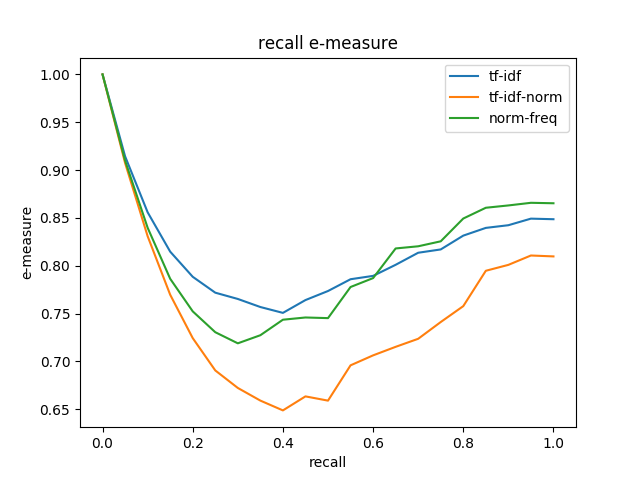
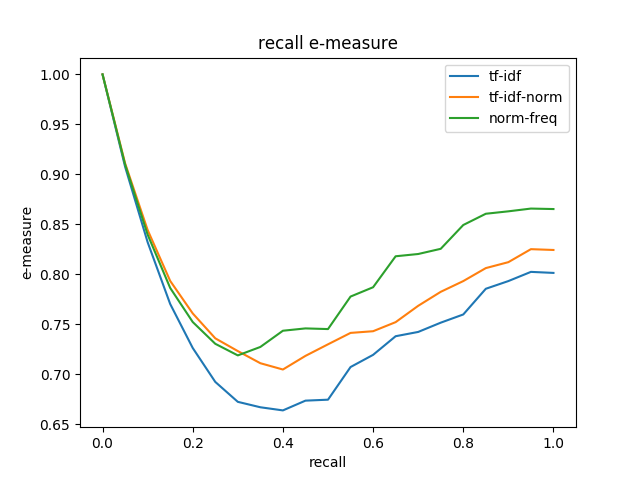
add map + r-measure

diff --git a/performance_test.py b/performance_test.py
@@ -10,6 +10,8 @@ from documents import DocumentNormalizer, DocumentTokenizer, StopList, InvertedI
 from query import Tree
 from search_models import VectorModel, BooleanModel
 
+MAX_RANK = 200
+
 parser = argparse.ArgumentParser(
     description='Runs a performance test on cacm collection')
 
@@ -120,20 +122,9 @@ def n_points_interpolate(qrecalls, qprecisions, n):
 
     return qrecalls_res, qprecisions_res
 
-
-def build_precision_recall(inv_index, queries, qrels, N):
-    # plot a curve for each model
+def search(inv_index, queries):
+    
     for model in models:
-        N = 20
-
-        # stores raw recalls and precision query_id -> list
-        recalls = {}
-        precisions = {}
-
-        # stores interpolated recalls an precisions query_id -> list
-        recalls_interpolated = {}
-        precisions_interpolated = {}
-
         # run all queries first
         @timeit
         def run_queries():
@@ -143,10 +134,15 @@ def build_precision_recall(inv_index, queries, qrels, N):
             }
 
         all_results, elapsed_time = run_queries()
+        yield model, all_results, elapsed_time
 
-        print(
-            str(len(all_results)) + " queries ran in " + str(elapsed_time) +
-            "ms using weights " + model.method)
+def build_recall_precision(inv_index, queries, qrels, search_results):
+    # plot a curve for each model
+    for model, all_results, elapsed_time in search_results:
+
+        # stores raw recalls and precision query_id -> list
+        recalls = {}
+        precisions = {}
 
         # build raw recall and precision
         for qid, ar in all_results.items():
@@ -154,7 +150,7 @@ def build_precision_recall(inv_index, queries, qrels, N):
                 recalls[qid] = []
                 precisions[qid] = []
                 # limit the rank to max 200
-                for rank in range(1, min(len(ar), 200)):
+                for rank in range(1, min(len(ar), MAX_RANK)):
                     results = ar[:rank]
                     right_results = [
                         result for result in results
@@ -168,6 +164,15 @@ def build_precision_recall(inv_index, queries, qrels, N):
 
                     recalls[qid].append(recall)
                     precisions[qid].append(precision)
+
+        yield model, recalls, precisions
+
+
+def interpolated_recall_precision(inv_index, queries, qrels, N, generatedRecallPrecisions):
+    for model, recalls, precisions in generatedRecallPrecisions:
+        # stores interpolated recalls an precisions query_id -> list
+        recalls_interpolated = {}
+        precisions_interpolated = {}
 
         # keep maximum precision for lower rank (interpolation)
         for qid, qprecisions in precisions.items():
@@ -220,9 +225,11 @@ def build_f_measure(recalls, precisions, beta):
 
 def build_e_measure(recalls, precisions, beta):
     recalls, f_measures = build_f_measure(recalls, precisions, beta)
-    e_measures = list(map(lambda x: 1 - x, f_measures))
+    e_measures = [1 - f_measure for f_measure in f_measures]
     return recalls, e_measures
 
+def build_average_precision(qrels):
+    pass
 
 with open(docRetreiveFile, 'rb') as f:
     retreive_dict = pickle.load(f)
@@ -238,12 +245,20 @@ with open(docRetreiveFile, 'rb') as f:
     queries = PerformanceQueries('./query.text')
     print("loaded queries from ./query.text")
 
-    recall_precision_curves = [(model, recall, precision) for (
-        model, recall,
-        precision) in build_precision_recall(inv_index, queries, qrels, 20)]
+    search_results = []
 
+    for model, all_results, elapsed_time in search(inv_index, queries):
+        print(
+            str(len(all_results)) + " queries ran in " + str(elapsed_time) +
+            "ms using weights " + model.method)
+        search_results.append((model, all_results, elapsed_time))
+
+    recall_precision_curves = list(build_recall_precision(inv_index, queries, qrels, search_results))
+    interpolated_recall_precision = list(interpolated_recall_precision(inv_index, queries, qrels, 20, recall_precision_curves))
+
+    # recall precision
     plt.figure(0)
-    for model, avg_recalls_interpolated, avg_precisions_interpolated in recall_precision_curves:
+    for model, avg_recalls_interpolated, avg_precisions_interpolated in interpolated_recall_precision:
         plt.plot(
             avg_recalls_interpolated,
             avg_precisions_interpolated,
@@ -252,12 +267,13 @@ with open(docRetreiveFile, 'rb') as f:
     plt.legend()
     plt.xlabel('recall')
     plt.ylabel('precision')
-    plt.savefig('./recallPrecision.png')
+    plt.savefig('./recall-precision.png')
 
     print('Recall precision curves drawn in ./recall-precision.png')
 
+    # F measure
     plt.figure(1)
-    for model, avg_recalls_interpolated, avg_precisions_interpolated in recall_precision_curves:
+    for model, avg_recalls_interpolated, avg_precisions_interpolated in interpolated_recall_precision:
         avg_recalls_interpolated, avg_f_measure_interpolated = build_f_measure(
             avg_recalls_interpolated, avg_precisions_interpolated, 1)
         plt.plot(
@@ -272,8 +288,9 @@ with open(docRetreiveFile, 'rb') as f:
 
     print('F measure curve drawn in ./f-measure.png')
 
+    # E measure
     plt.figure(2)
-    for model, avg_recalls_interpolated, avg_precisions_interpolated in recall_precision_curves:
+    for model, avg_recalls_interpolated, avg_precisions_interpolated in interpolated_recall_precision:
         avg_recalls_interpolated, avg_e_measure_interpolated = build_e_measure(
             avg_recalls_interpolated, avg_precisions_interpolated, 1)
         plt.plot(
@@ -287,3 +304,30 @@ with open(docRetreiveFile, 'rb') as f:
     plt.savefig('./e-measure.png')
 
     print('E measure curve drawn in ./e-measure.png')
+
+    # R measure
+    for model, recalls, precisions in recall_precision_curves:
+        r_measures = []
+        for qid, qrecalls in recalls.items():
+            R = qrels.queries_results[qid]
+            r_measures.append(qrecalls[qid])
+        print('R measure for model ' + model.method + ' : ' + str(sum(r_measures) / len(r_measures)))
+
+    # Mean average precision
+    for (model, all_results, et),(model_, recalls, precisions) in zip(search_results, recall_precision_curves):
+        avg_mean_precision_build = []
+        for qid, qexpected in qrels.queries_results.items():
+            if(len(qexpected) > 0):
+                q_mean_precisions_build = []
+                for expected_result in qexpected:
+                    try:
+                        rank = all_results[qid].index(expected_result)
+                        if rank < MAX_RANK:
+                            q_mean_precisions_build.append(precisions[qid][rank])
+                    except Exception:
+                        pass
+                if len(q_mean_precisions_build) > 0:
+                    q_avg_mean_precision = sum(q_mean_precisions_build) / len(q_mean_precisions_build)
+                    avg_mean_precision_build.append(q_avg_mean_precision)
+        avg_mean_precision = sum(avg_mean_precision_build) / len(avg_mean_precision_build)
+        print('MAP for model ' + model.method + ' : ' + str(avg_mean_precision))

diff --git a/search_models.py b/search_models.py
@@ -33,9 +33,9 @@ class VectorModel:
             if token in inv_index.inverted_index:
                 idf = math.log10(len(inv_index.inverted_index) / len(inv_index.inverted_index[token]))
                 if self.method == 'tf-idf':
-                    query_vector.v[token] = (1 + math.log10(amount)) * idf
-                elif self.method == 'tf-idf-norm':
                     query_vector.v[token] = amount * idf
+                elif self.method == 'tf-idf-norm':
+                    query_vector.v[token] = (1 + math.log10(amount)) * idf
                 elif self.method == 'norm-freq':
                     query_vector.v[token] = amount / max(counter.values())
 
@@ -52,9 +52,9 @@ class VectorModel:
                 idf = math.log10(len(inv_index.inverted_index) / len(postings))
                 for doc_id, raw_tf in postings.items():
                     if self.method == 'tf-idf':
-                        document_vectors[doc_id].v[term] = (1 + math.log10(raw_tf)) * idf
-                    elif self.method == 'tf-idf-norm':
                         document_vectors[doc_id].v[term] = raw_tf * idf
+                    elif self.method == 'tf-idf-norm':
+                        document_vectors[doc_id].v[term] = (1 + math.log10(raw_tf)) * idf
                     elif self.method == 'norm-freq':
                         document_vectors[doc_id].v[term] = raw_tf / doc_most_frequent[doc_id]
 

diff --git a/documents.py b/documents.py
@@ -106,21 +106,13 @@ class InvertedIndex:
             elif method == 'norm-freq':
                 self.build_norm_freq()
 
-    # TODO
     def merge(self, inv_index):
         for token in inv_index.inverted_index.keys():
             self.inverted_index[token].update(inv_index.inverted_index[token])
         self.doc_most_frequent.update(inv_index.doc_most_frequent)
-        for method in self.methods:
-            if method == 'tf_idf':
-                for token in inv_index.tf_idf.keys():
-                    self.tf_idf[token].update(inv_index.tf_idf[token])
-            elif method == 'tf-idf-norm':
-                for token in inv_index.tf_idf_norm.keys():
-                    self.tf_idf_norm[token].update(inv_index.tf_idf_norm[token])
-            elif method == 'norm-freq':
-                for token in inv_index.norm_freq.keys():
-                    self.norm_freq[token].update(inv_index.norm_freq[token])
+        self.doc_norms_tf_idf.update(inv_index.doc_norms_tf_idf)
+        self.doc_norms_tf_idf_norm.update(inv_index.doc_norms_tf_idf_norm)
+        self.doc_norms_norm_freq.update(inv_index.doc_norms_norm_freq)
 
     def build_tf_idf(self):
         for term, term_postings in self.inverted_index.items():
